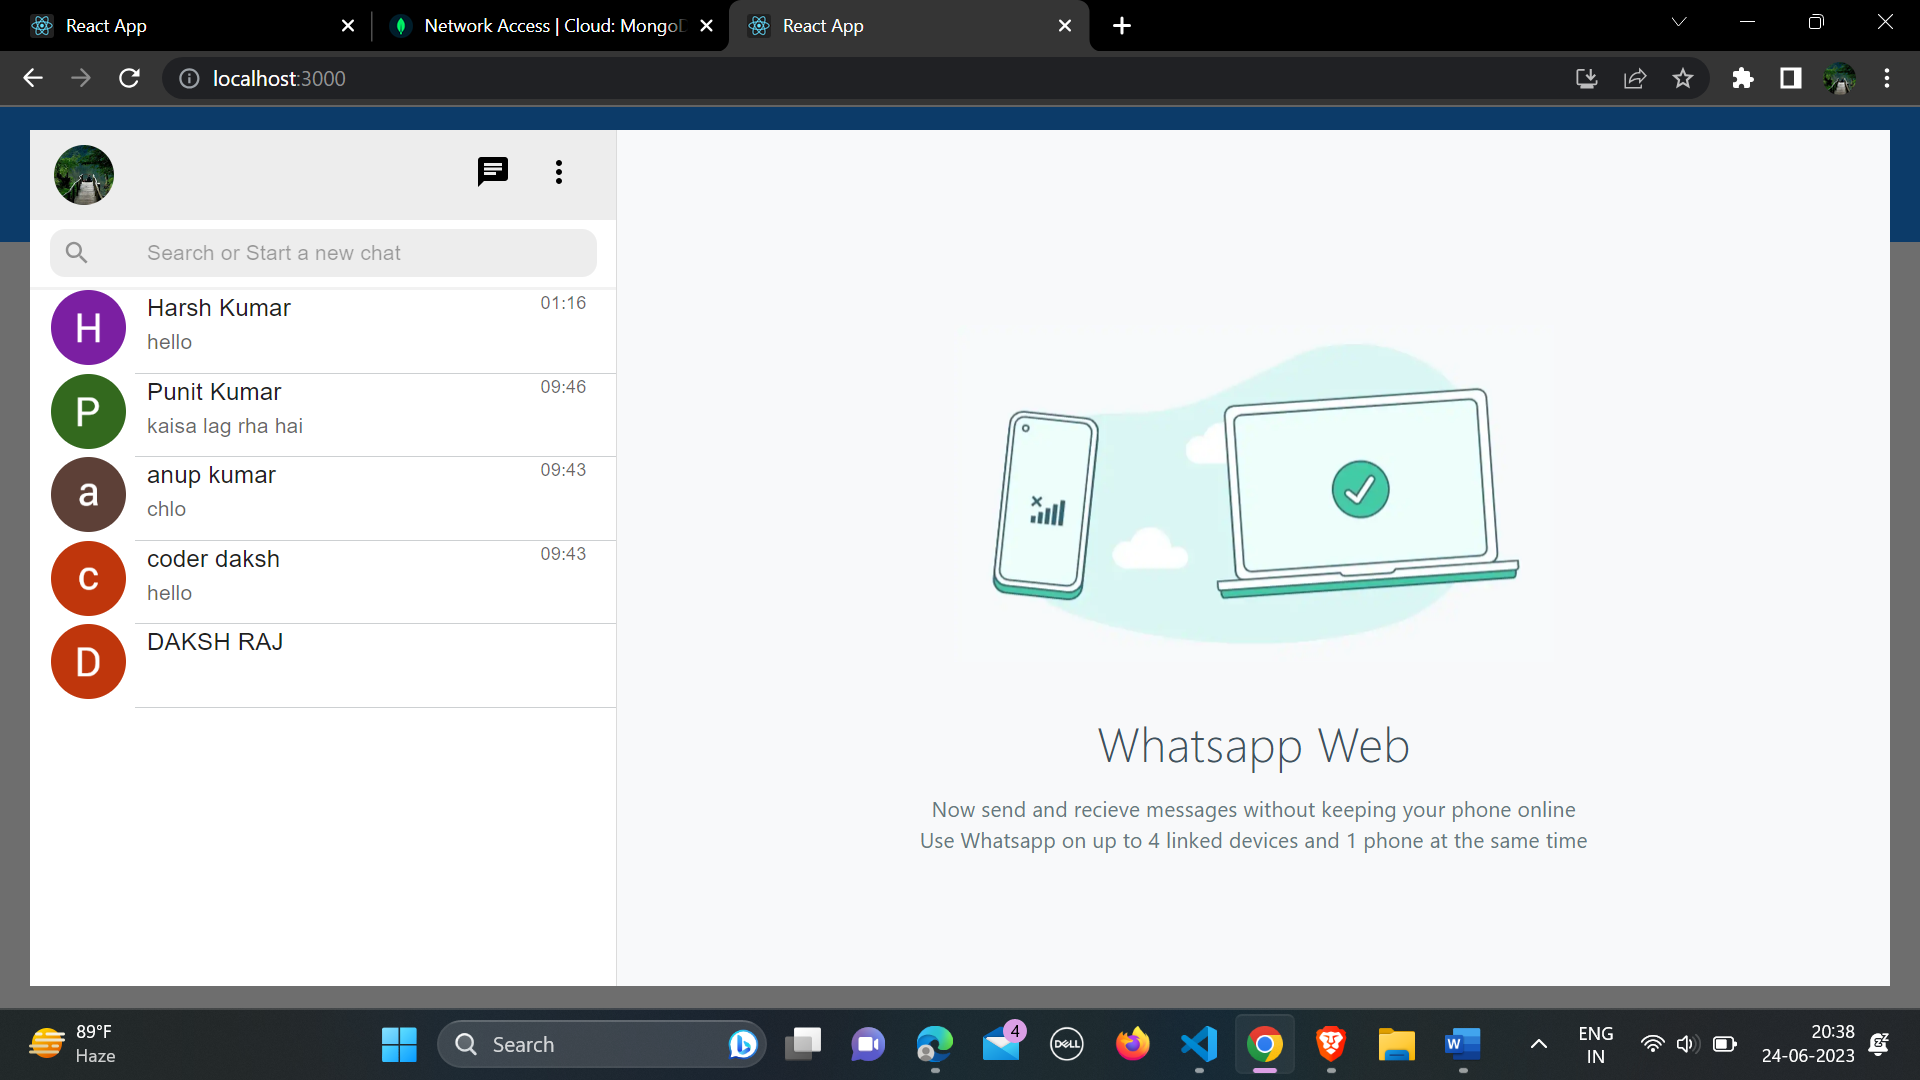
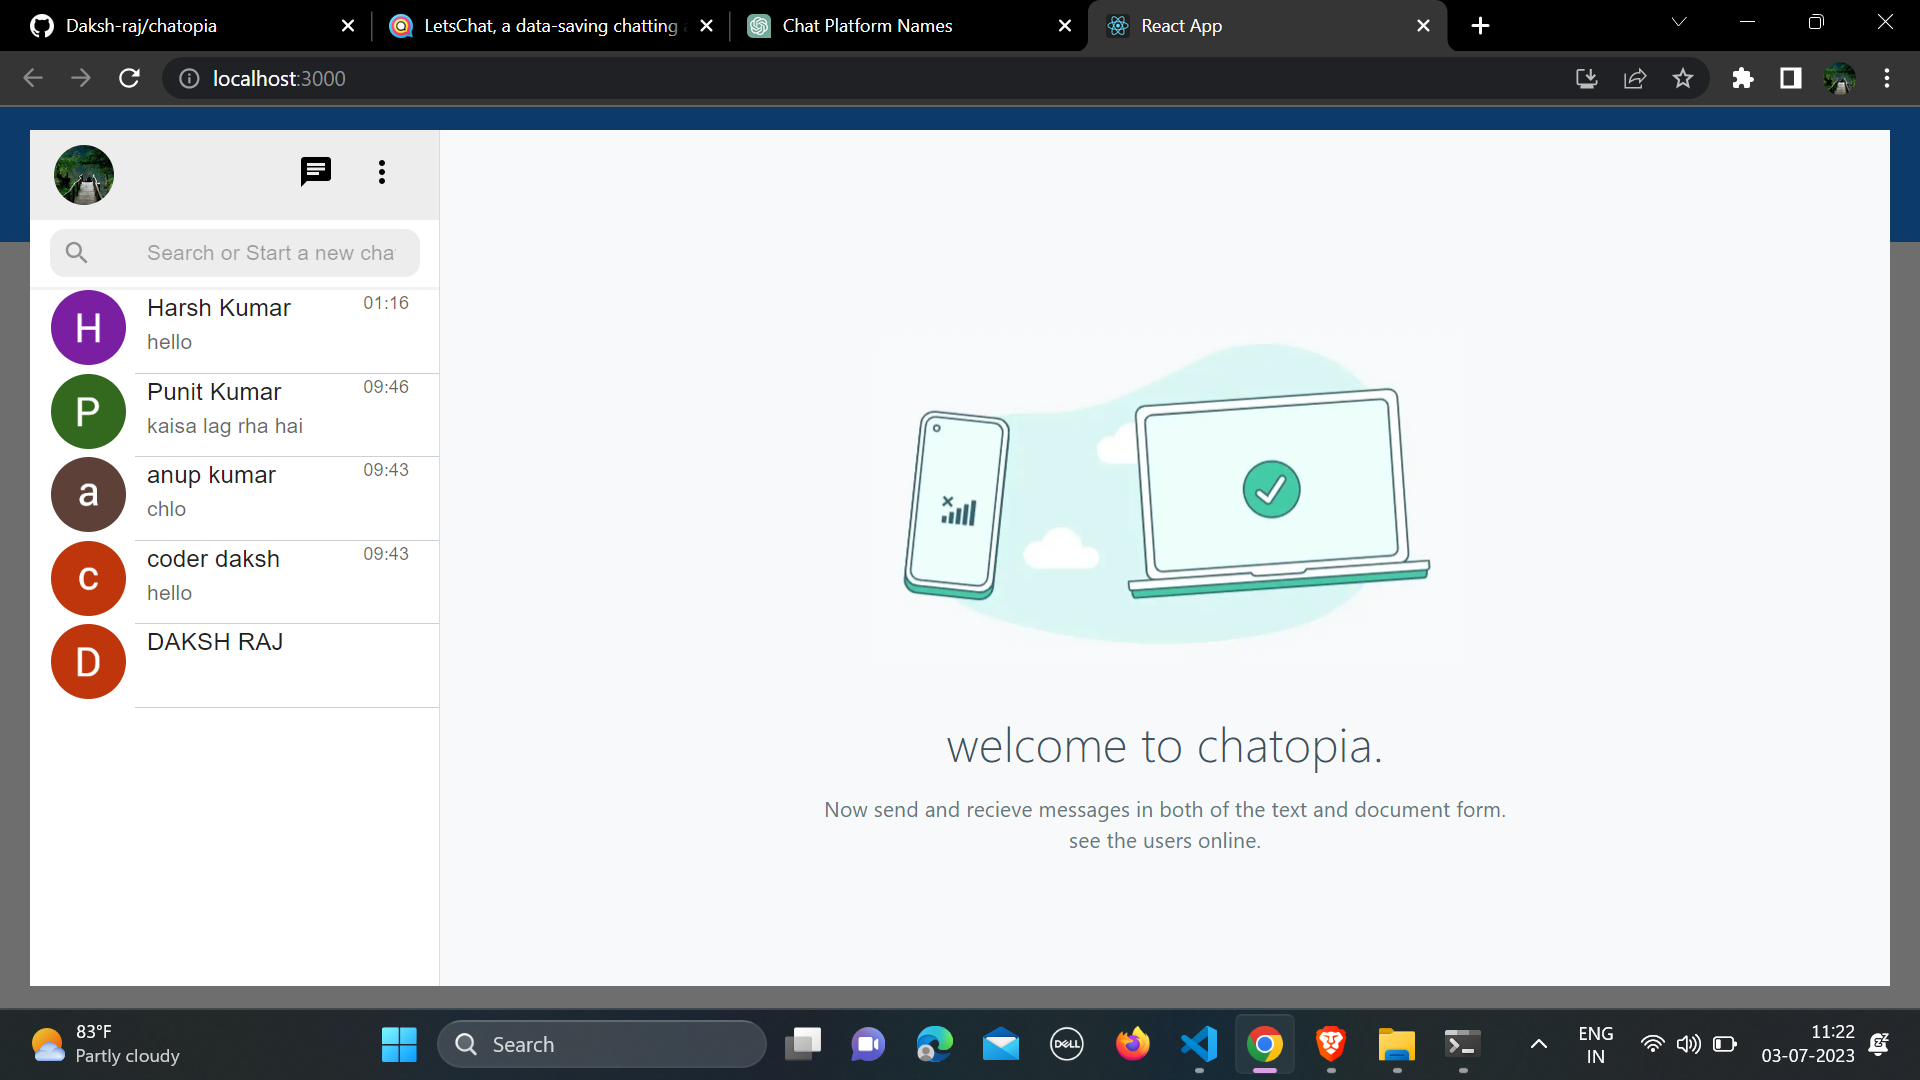
changed images

diff --git a/client/src/components/chat/chat/EmptyChat.jsx b/client/src/components/chat/chat/EmptyChat.jsx
@@ -36,12 +36,12 @@ const EmptyChat = () => {
     <Component>
       <Container>
         <Image src={emptyChatImage} alt="Error image loading"></Image>
-        <Title>Whatsapp Web</Title>
+        <Title>welcome to chatopia.</Title>
         <SubTitle>
-          Now send and recieve messages without keeping your phone online
+          Now send and recieve messages in both of the text and document form.
         </SubTitle>
         <SubTitle>
-          Use Whatsapp on up to 4 linked devices and 1 phone at the same time
+          see the users online.
         </SubTitle>
       </Container>
     </Component>

diff --git a/client/src/components/chat/chat/Message.jsx b/client/src/components/chat/chat/Message.jsx
@@ -11,7 +11,6 @@ const Own = styled(Box)`
   padding: 5px;
   width: fit-content;
   display: flex;
-  border-radius: 10px;
   word-break: break-word;
 `;
 const Wrapper = styled(Box)`
@@ -21,7 +20,6 @@ const Wrapper = styled(Box)`
   padding: 5px;
   width: fit-content;
   display: flex;
-  border-radius: 10px;
   word-break: break-word;
 `;
 

diff --git a/client/src/components/chat/ChatDialog.jsx b/client/src/components/chat/ChatDialog.jsx
@@ -23,13 +23,13 @@ const Component = styled(Box)`
 `;
 
 const LeftComponent = styled(Box)`
-  min-width: 25%;
-  width: 400px;
+  min-width: 20%;
+  width: 350px;
 `;
 
 const RightComponent = styled(Box)`
   min-width: 30%;
-  width: 70%;
+  width: 100%;
   height: 100vh;
   border-left: 1px solid rgba(0, 0, 0, 0.14);
 `;
